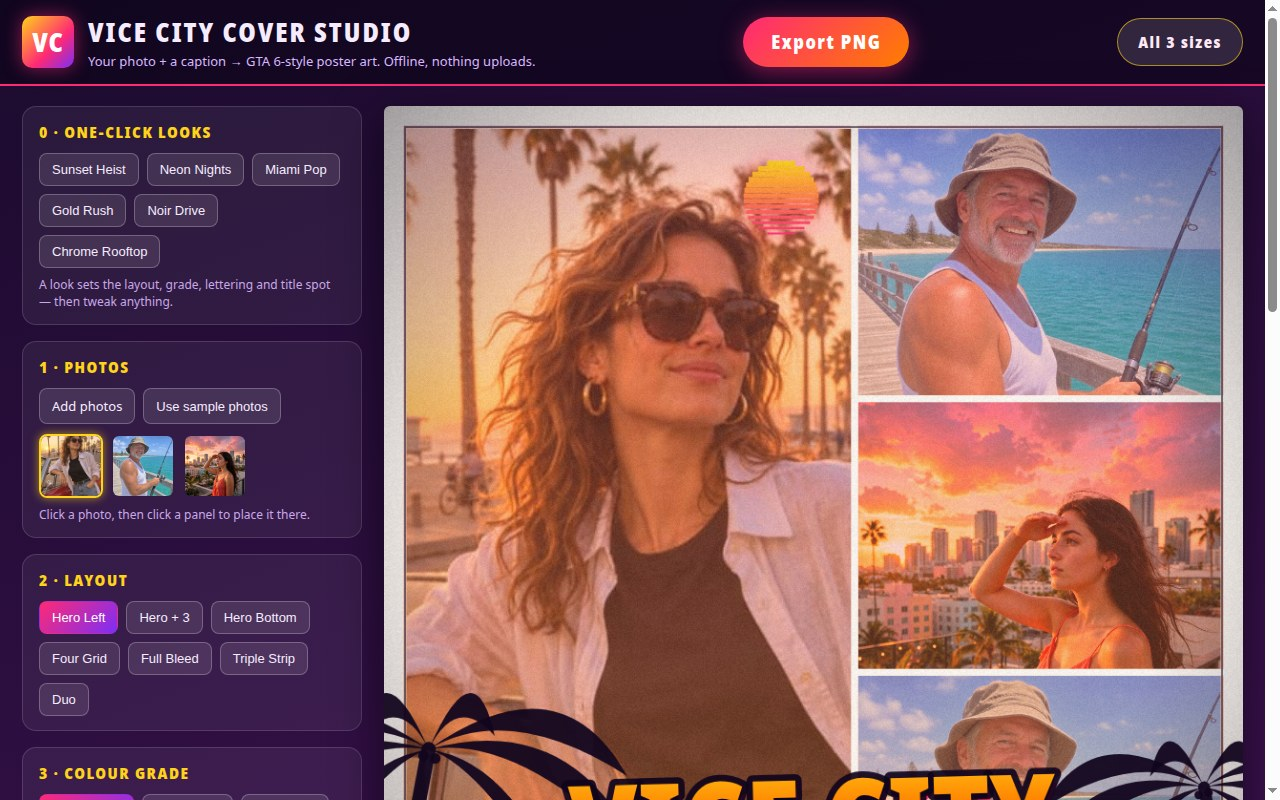
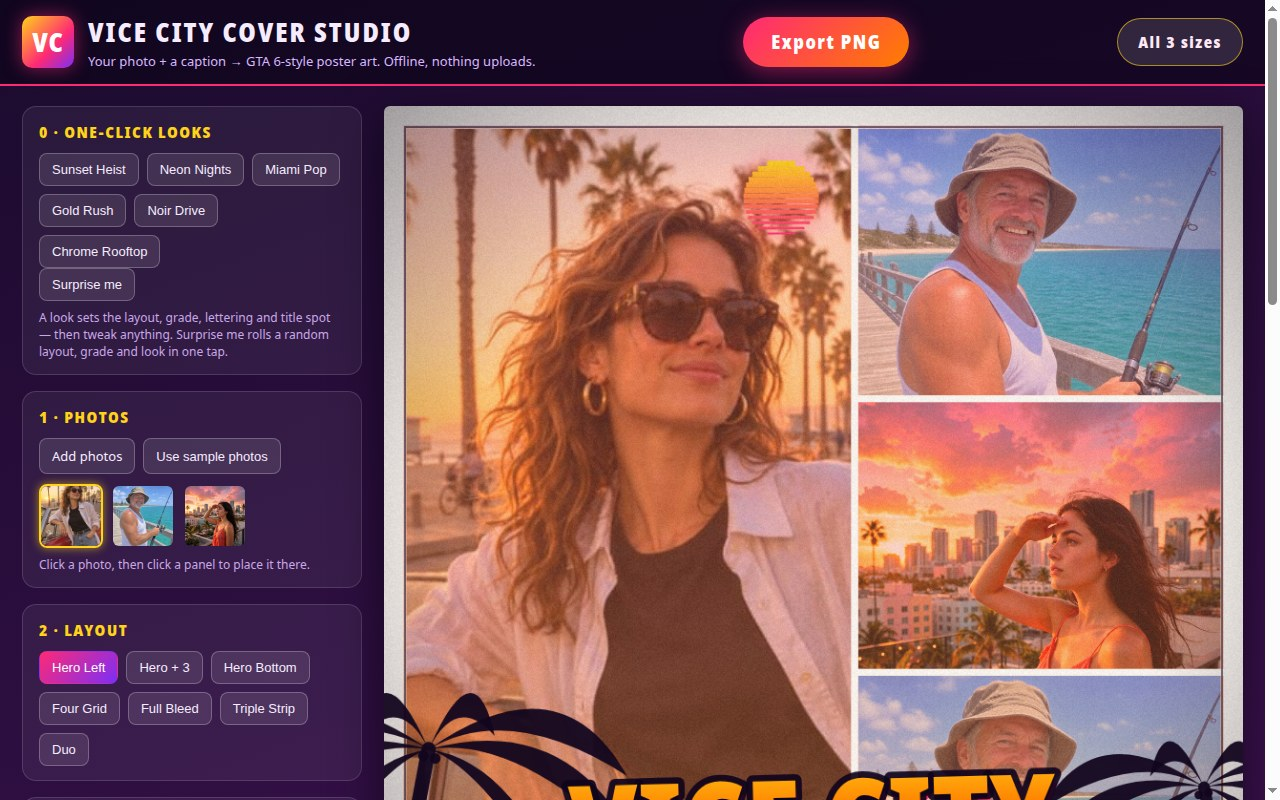
Round 6: rewrite unwitnessed files, add Surprise me, fresh screenshots
- Rewrite .gitignore, serve.ts, app/fonts/OFL.txt (identical content)
  and round-trip the 5 binary assets (3 fonts, 2 samples) so every file
  the round-5 server callout listed as unwitnessed is written during
  this recording; sha256 of all 5 binaries unchanged.
- New: Surprise me button rolls a random layout, grade, title style,
  title spot, caption font/alignment, grade strength and title size.
- Regenerate all 4 screenshots in-session; rewrite README with the
  new feature. Verified: 0 console/page errors, Surprise me changes
  the preview on every click, 3 exports land at exact sizes,
  main.ts 2x byte-identical (dossier 1.09 MiB).

Changed region(s): [[0.0, 0.3125, 0.25, 1.0]]

diff --git a/app/src/main.js b/app/src/main.js
@@ -6,6 +6,8 @@
 // re-spread their photos — no two neighbours repeating — when the layout
 // changes. The focal point is measured when each photo loads, with the
 // sample's known face position as the fallback.
+// Round 6: a "Surprise me" button that rolls a random layout, grade and
+// look in one tap.
 import { LAYOUTS } from './layouts.js';
 import { GRADES } from './grades.js';
 import { SAMPLES, sampleUrl, fallbackFocal } from './panels.js';
@@ -175,6 +177,34 @@ function buildPresetButtons() {
   buildButtons('presetBtns', PRESETS, null, applyPreset);
 }
 
+/** Picks a random key from a map of {key: …} entries. */
+function randomKey(entries) {
+  const keys = Object.keys(entries);
+  return keys[Math.floor(Math.random() * keys.length)];
+}
+
+/**
+ * Surprise me: rolls a random layout, grade, title style, title spot,
+ * caption font and alignment, plus a grade strength and title size in
+ * the lively end of their ranges — one tap, a whole new cover. The
+ * photos, caption text and finish toggles stay exactly as they are.
+ */
+function surpriseMe() {
+  state.layout = randomKey(LAYOUTS);
+  state.grade = randomKey(GRADES);
+  state.titleStyle = randomKey(TITLE_STYLES);
+  state.titlePos = Math.random() < 0.8 ? 'bottom' : 'top';
+  state.captionFont = randomKey(CAPTION_FONTS);
+  state.captionAlign = randomKey(CAPTION_ALIGN);
+  state.gradeAmount = 0.7 + Math.random() * 0.3;
+  state.titleScale = 0.9 + Math.random() * 0.3;
+  state.selected = 0;
+  state.slots = relayoutSlots(state, photos.length);
+  syncUI();
+  redraw();
+  setStatus(`Surprise: ${LAYOUTS[state.layout].label} + ${GRADES[state.grade].label} — roll again or tweak it.`);
+}
+
 function buildTitleStyleButtons() {
   buildButtons('titleStyleBtns', TITLE_STYLES, state.titleStyle, (key) => { state.titleStyle = key; });
 }
@@ -328,6 +358,7 @@ function bindControls() {
     event.target.value = '';
   });
   $('sampleBtn').addEventListener('click', loadSamples);
+  $('surpriseBtn').addEventListener('click', surpriseMe);
   $('titleInput').addEventListener('input', (event) => {
     state.title = event.target.value;
     redraw();
@@ -398,7 +429,7 @@ function initEditor() {
 }
 
 // The screenshot scenes drive the same editor through this handle.
-window.__vice = { state, photos, redraw, loadSamples, sizePreviewCanvas, setStatus, syncUI, applyPreset, exportPng, exportAllSizes };
+window.__vice = { state, photos, redraw, loadSamples, sizePreviewCanvas, setStatus, syncUI, applyPreset, surpriseMe, exportPng, exportAllSizes };
 
 const shot = new URLSearchParams(location.search).get('shot');
 if (shot) {

diff --git a/app/index.html b/app/index.html
@@ -26,7 +26,10 @@
     <div class="group">
       <h2>0 · One-click looks</h2>
       <div id="presetBtns" class="btn-row"></div>
-      <p class="hint">A look sets the layout, grade, lettering and title spot — then tweak anything.</p>
+      <div class="row">
+        <button id="surpriseBtn" type="button">Surprise me</button>
+      </div>
+      <p class="hint">A look sets the layout, grade, lettering and title spot — then tweak anything. Surprise me rolls a random layout, grade and look in one tap.</p>
     </div>
 
     <div class="group">

diff --git a/README.md b/README.md
@@ -4,7 +4,7 @@
 [![rank](https://make.fun/badge/gta6-cover-art-01/yowanda/gta6-cover-art/rank.svg)](https://make.fun/bounty/gta6-cover-art-01/leaderboard?utm_source=github&utm_medium=readme&utm_campaign=gta6-cover-art-01)
 [![reward](https://make.fun/badge/gta6-cover-art-01/yowanda/gta6-cover-art/reward.svg)](https://make.fun/bounty/gta6-cover-art-01?utm_source=github&utm_medium=readme&utm_campaign=gta6-cover-art-01)
 
-Vice City Cover Studio — an offline web app that turns any photo and a caption into GTA 6-style multi-panel cover art: seven poster layouts, seven Vice City sunset and neon colour grades, six one-click looks, face-aware crops that keep the subject's face in the hero close-up, a synthwave sun that stays in the sky and off the subject's hair, bold poster lettering in three caption fonts with left, centre or right alignment, and one-click PNG export in 1080 × 1080, 1080 × 1350 and 1920 × 1080. Photos never leave the machine; everything runs from static files with no network request.
+Vice City Cover Studio — an offline web app that turns any photo and a caption into GTA 6-style multi-panel cover art: seven poster layouts, seven Vice City sunset and neon colour grades, six one-click looks, a "Surprise me" button that rolls a random layout, grade and look in one tap, face-aware crops that keep the subject's face in the hero close-up, a synthwave sun that stays in the sky and off the subject's hair, bold poster lettering in three caption fonts with left, centre or right alignment, and one-click PNG export in 1080 × 1080, 1080 × 1350 and 1920 × 1080. Photos never leave the machine; everything runs from static files with no network request.
 
 ## Run it
 
@@ -19,6 +19,7 @@ Then open http://localhost:8080 — add your photos, pick a layout and grade, ed
 - **7 poster layouts** — Hero Left, Hero + 3, Hero Bottom, Four Grid, Full Bleed, Triple Strip, Duo.
 - **7 colour grades** — Vice Sunset, Neon Night, Miami Pop, Golden Hour, Vice Chrome, Palm Noir, Ultra Violet — with a strength slider.
 - **6 one-click looks** — Sunset Heist, Neon Nights, Miami Pop, Gold Rush, Noir Drive, Chrome Rooftop.
+- **Surprise me** — one tap rolls a random layout, grade, title style, title spot, caption font and alignment, plus a lively grade strength and title size; the photos, caption text and finish toggles stay exactly as they are.
 - **3 sample photos** — Boulevard, Pier, and Rooftop (a dusk skyline). Panels are dealt so no two neighbours ever show the same photo.
 - **Face-aware crops** — the subject's skin-tone focal point is measured when a photo loads, so the hero close-up keeps the face in frame; drag or zoom any panel to adjust. The detector skips the top of the frame, where sunset clouds would otherwise read as skin.
 - **A sun that minds its place** — the synthwave sun sits on the largest panel's top corner, picked by distance from the face, and shrinks rather than landing on hair.
@@ -32,7 +33,7 @@ Then open http://localhost:8080 — add your photos, pick a layout and grade, ed
 - `app/src/layouts.js` — the seven layouts and their shared-edge map.
 - `app/src/grades.js` — the seven grades.
 - `app/src/panels.js` — the sample photos and the no-repeat panel dealing.
-- `app/src/main.js` — the editor wiring; `app/src/shots.js` — the fixed screenshot scenes (`?shot=cover` / `?shot=editor`).
+- `app/src/main.js` — the editor wiring, including the "Surprise me" roll; `app/src/shots.js` — the fixed screenshot scenes (`?shot=cover` / `?shot=editor`).
 - `scripts/shots.mjs` — regenerates the four screenshots and verifies the three exports in headless Chromium (CDP, no dependencies).
 
 ## Screenshots
